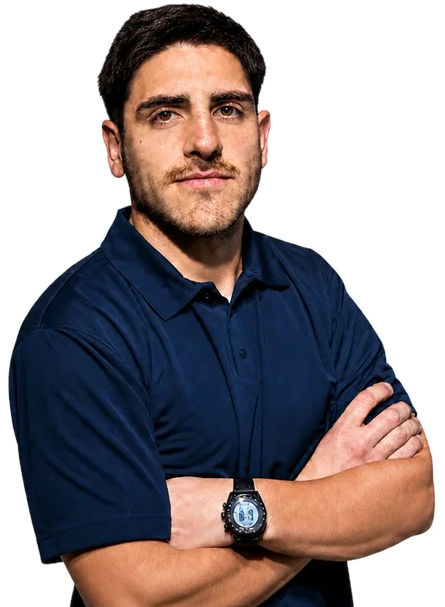
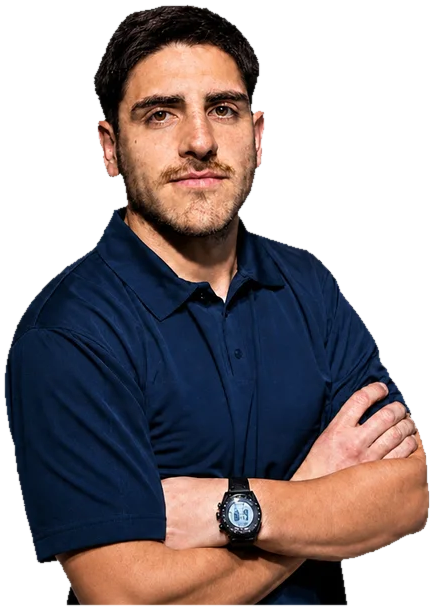
Clean up cutout edges, retune backdrop, and flush the photo to the bottom
Re-ran background removal with edge erosion to eliminate the light
fringe around hair/arms, switched the flat olive to a soft two-tone
studio-backdrop vignette matching the reference, and dropped the bottom
padding on the photo so it sits flush against the section's bottom edge.

Claude-Session: https://claude.ai/code/session_01YZC3dgGL5c9fjK4Aa7mBkQ

diff --git a/components/helora-hero.tsx b/components/helora-hero.tsx
@@ -49,7 +49,7 @@ function ArrowButton({
         "group flex items-center gap-3 rounded-full py-1.5 pl-5 pr-1.5 text-sm font-medium transition-transform duration-300 ease-out hover:scale-105 active:scale-100",
         variant === "dark"
           ? "bg-white/10 text-white"
-          : "bg-white text-[#4d5d45]",
+          : "bg-white text-[#4b6644]",
         className
       )}
     >
@@ -86,7 +86,7 @@ export default function HeloraHero() {
       className={cn(
         fraunces.variable,
         libreFranklin.variable,
-        "relative w-full bg-[#4d5d45]"
+        "relative w-full bg-[#4b6644]"
       )}
       style={{ fontFamily: "var(--font-libre-franklin)" }}
     >
@@ -111,7 +111,7 @@ export default function HeloraHero() {
               className={cn(
                 "rounded-full px-5 py-2 text-sm transition-colors duration-300 ease-out",
                 link === "Home"
-                  ? "bg-white text-[#4d5d45]"
+                  ? "bg-white text-[#4b6644]"
                   : "text-white/80 hover:bg-white/10 hover:text-white"
               )}
             >
@@ -126,12 +126,12 @@ export default function HeloraHero() {
       </header>
 
       <div className="relative min-h-[820px] overflow-hidden sm:min-h-[760px] lg:min-h-[720px]">
-        {/* soft ambient glow behind the subject */}
+        {/* soft studio-backdrop vignette behind the subject */}
         <div
           className="pointer-events-none absolute inset-0"
           style={{
             background:
-              "radial-gradient(45% 55% at 78% 38%, rgba(255,255,255,0.14), transparent 70%)",
+              "radial-gradient(65% 75% at 72% 35%, #6c8560 0%, #4b6644 55%, #3c5537 100%)",
           }}
           aria-hidden="true"
         />
@@ -167,7 +167,7 @@ export default function HeloraHero() {
                   key={avatar.initials}
                   style={{ backgroundColor: avatar.bg }}
                   className={cn(
-                    "flex h-10 w-10 items-center justify-center rounded-full border-2 border-[#4d5d45] text-xs font-semibold text-[#3a4534] transition-transform duration-300 ease-out",
+                    "flex h-10 w-10 items-center justify-center rounded-full border-2 border-[#4b6644] text-xs font-semibold text-[#33421f] transition-transform duration-300 ease-out",
                     i === 0 && "group-hover:-translate-x-1.5",
                     i === 2 && "group-hover:translate-x-1.5"
                   )}
@@ -196,7 +196,7 @@ export default function HeloraHero() {
             src="/images/hero-person.png"
             alt="Wellness coach with arms crossed"
             draggable={false}
-            className="h-[320px] w-auto object-contain object-bottom transition-transform duration-200 ease-out will-change-transform sm:h-[420px] lg:h-full lg:py-6"
+            className="h-[320px] w-auto object-contain object-bottom transition-transform duration-200 ease-out will-change-transform sm:h-[420px] lg:h-full lg:pt-6"
             style={{
               transform: `rotateX(${tilt.rotateX}deg) rotateY(${tilt.rotateY}deg) scale(1.02)`,
             }}
